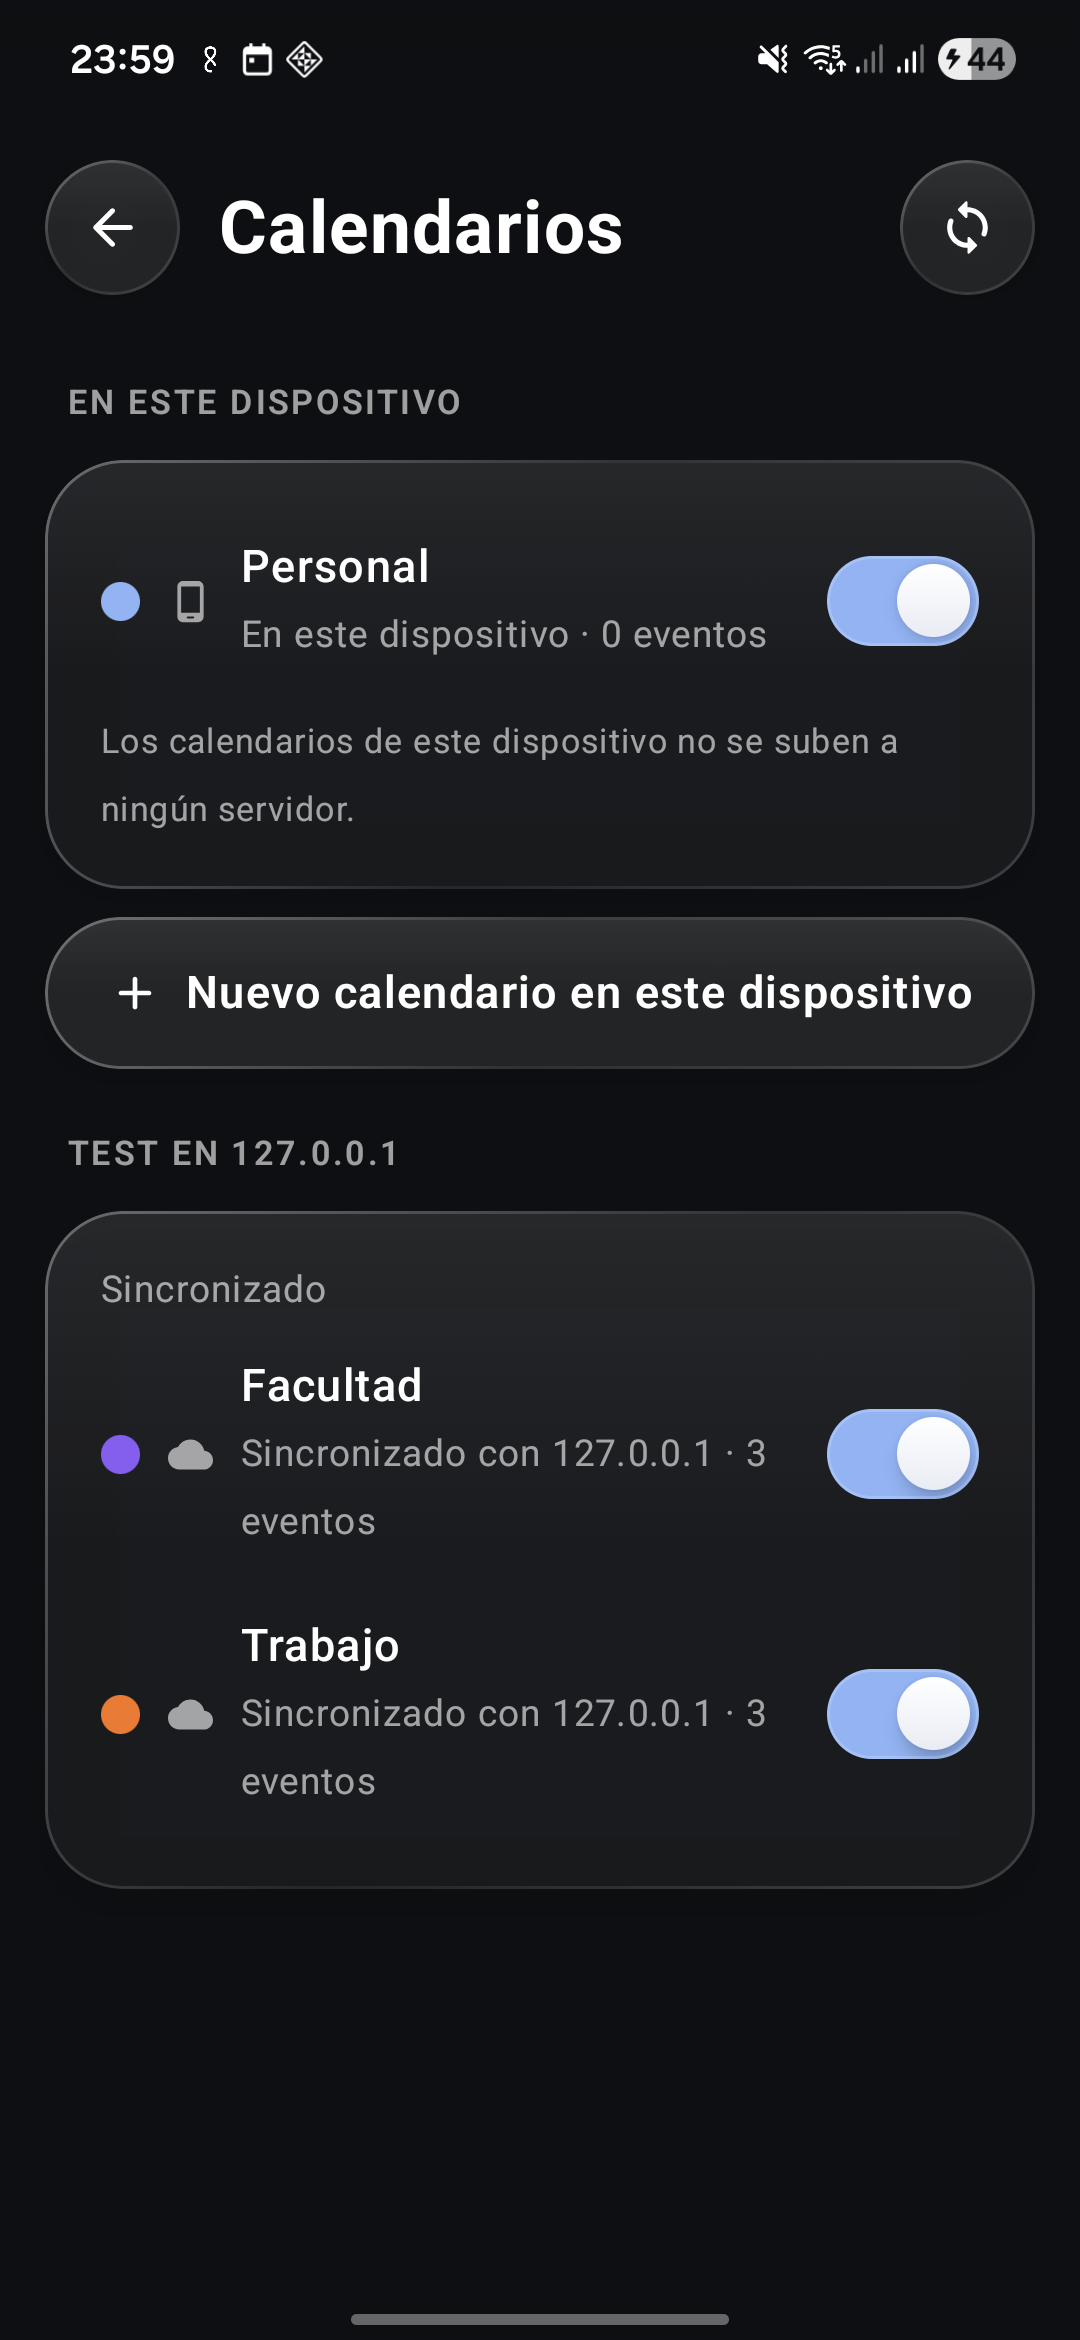
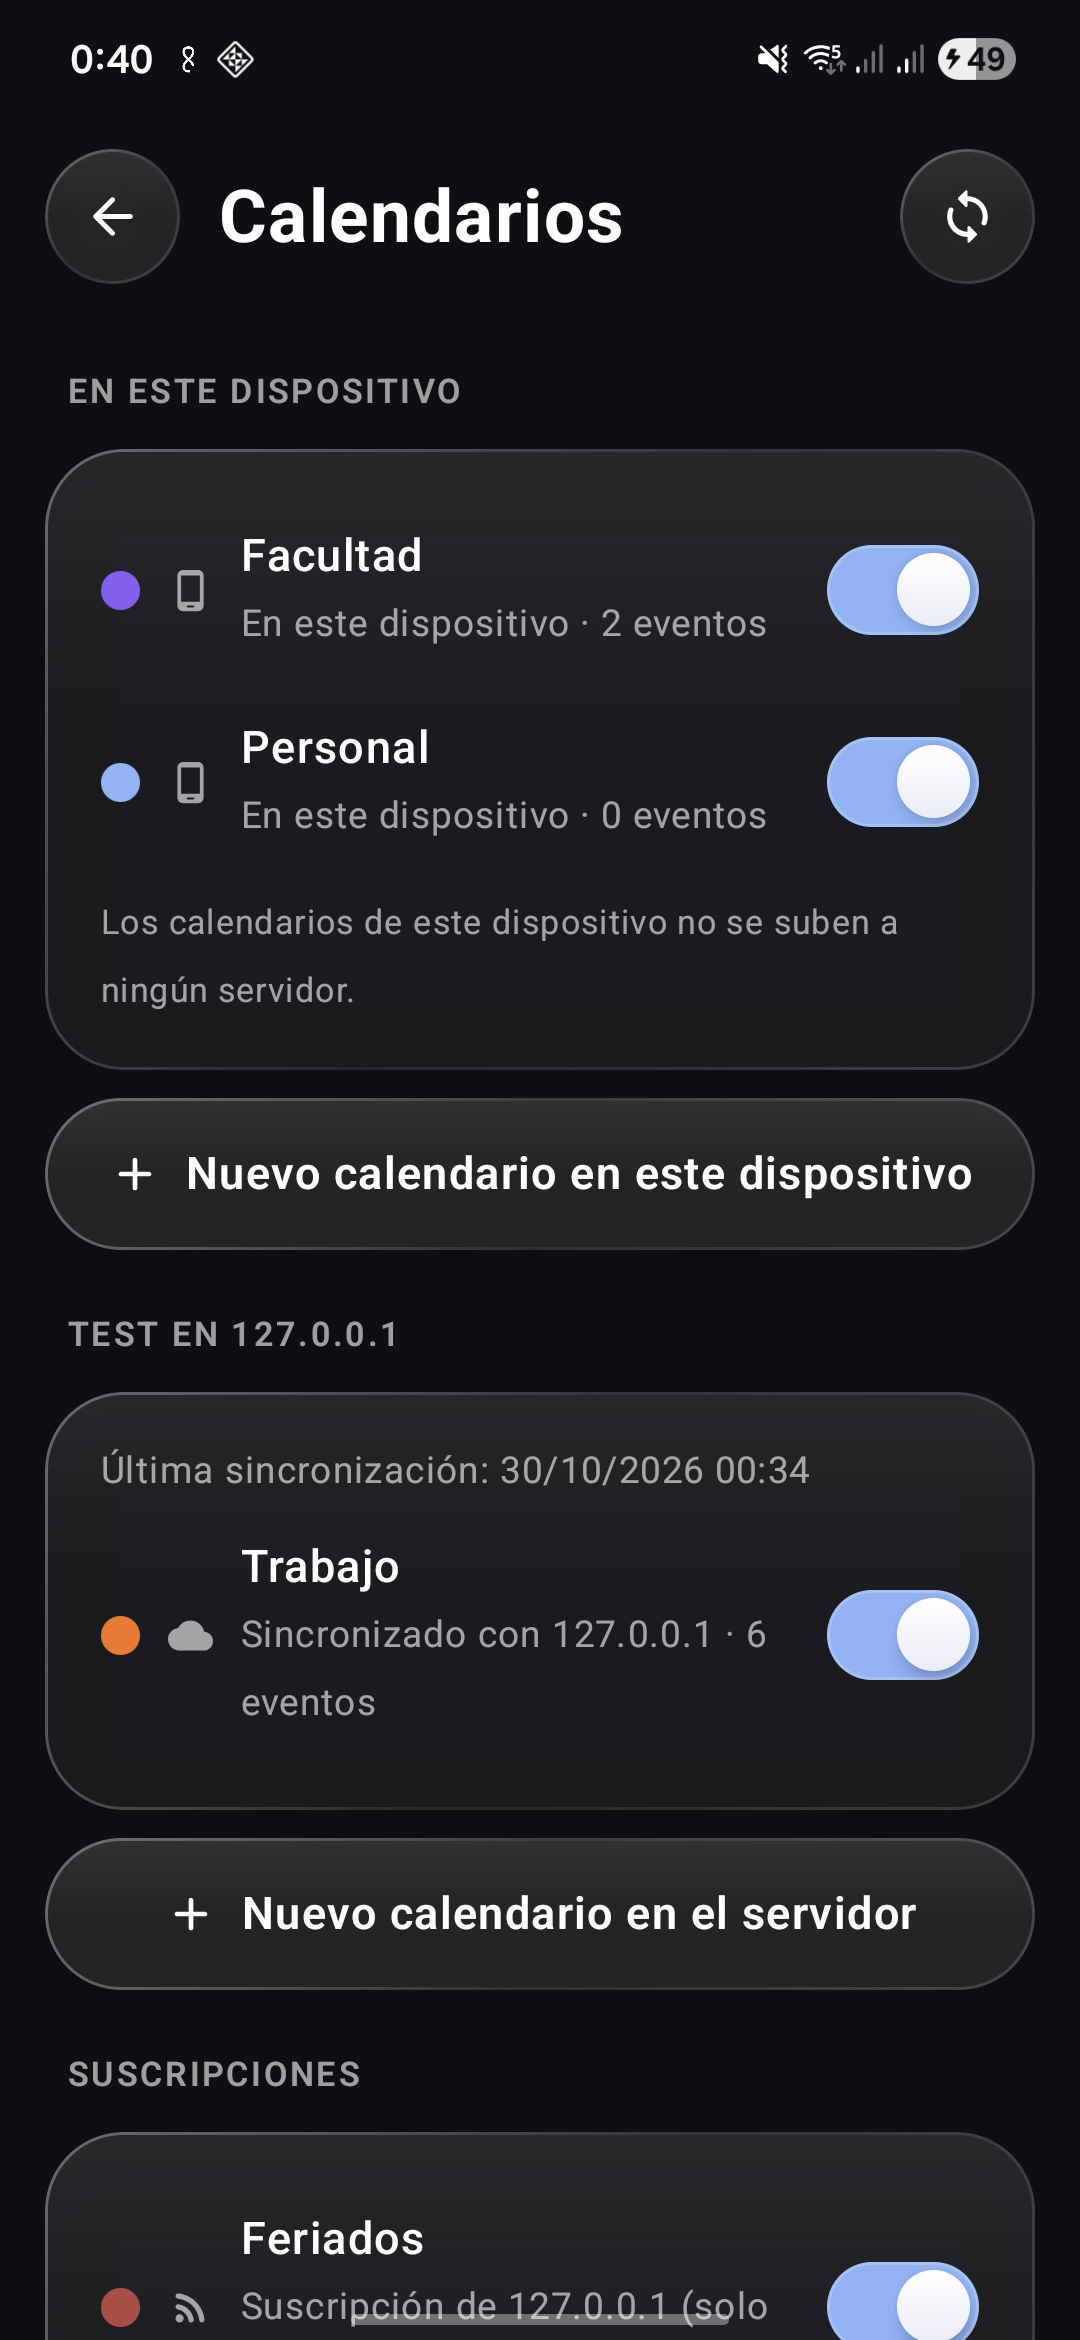
Etapa 6: prueba en el celu, ajustes y documentación
- Diálogos por encima del teclado (el borrado fuerte quedaba tapado).
- Destino de importación en filas con su origen; 304 del feed como "sin cambios".
- Alta de suscripción con una sola descarga; tras aceptar una redirección se reintenta.
- Feeds http solo hacia el propio celu y solo en compilaciones de prueba.
- Capturas con datos de prueba y LIMITACIONES actualizado.

diff --git a/app/src/main/java/dev/liquidcalendar/ui/screens/CalendarManage.kt b/app/src/main/java/dev/liquidcalendar/ui/screens/CalendarManage.kt
@@ -25,6 +25,14 @@ import androidx.compose.material.icons.rounded.DeleteOutline
 import androidx.compose.material.icons.rounded.FileDownload
 import androidx.compose.material.icons.rounded.Sync
 import androidx.compose.material3.Text
+import androidx.compose.material3.Icon
+import androidx.compose.material.icons.rounded.RadioButtonChecked
+import androidx.compose.material.icons.rounded.RadioButtonUnchecked
+import androidx.compose.foundation.layout.Spacer
+import androidx.compose.foundation.layout.width
+import dev.liquidcalendar.ui.glass.SettingRow
+import dev.liquidcalendar.ui.screens.views.OriginIcon
+import dev.liquidcalendar.ui.screens.views.originText
 import androidx.compose.runtime.Composable
 import androidx.compose.runtime.LaunchedEffect
 import androidx.compose.runtime.getValue
@@ -66,7 +74,6 @@ import dev.liquidcalendar.ui.glass.ACCENT_HUES
 import dev.liquidcalendar.ui.glass.DialogSpec
 import dev.liquidcalendar.ui.glass.GlassButton
 import dev.liquidcalendar.ui.glass.GlassCard
-import dev.liquidcalendar.ui.glass.GlassChip
 import dev.liquidcalendar.ui.glass.GlassTextField
 import dev.liquidcalendar.ui.glass.LocalDialog
 import dev.liquidcalendar.ui.glass.LocalGlass
@@ -299,9 +306,10 @@ fun SubscriptionScreen(calendarId: Long?, padding: PaddingValues, onBack: () -> 
     var color by rememberSaveable { mutableIntStateOf(info?.color ?: CALENDAR_COLORS[3]) }
     var interval by rememberSaveable { mutableIntStateOf(account?.refreshMinutes ?: Subscriptions.DEFAULT_INTERVAL) }
     var message by remember { mutableStateOf<String?>(null) }
+    var notice by remember { mutableStateOf<String?>(null) }
     var busy by remember { mutableStateOf(false) }
     val accepted = remember { mutableStateOf(account?.acceptedHosts.orEmpty()) }
-    val feed = (FeedUrl.parse(url) as? FeedUrl.Result.Ok)?.url
+    val feed = (Subscriptions.parse(url) as? FeedUrl.Result.Ok)?.url
 
     fun intervalLabel(m: Int) = when {
         m == 0 -> str(R.string.sync_manual)
@@ -380,27 +388,33 @@ fun SubscriptionScreen(calendarId: Long?, padding: PaddingValues, onBack: () -> 
             Text(feed?.let { str(R.string.subscription_ip_notice, it.host) } ?: str(R.string.subscription_ip_notice_generic), fontSize = 13.sp, color = p.contentSecondary)
         }
         if (message != null) Text(message!!, Modifier.padding(8.dp).semantics { liveRegion = LiveRegionMode.Polite }, fontSize = 14.sp, color = p.danger)
+        if (notice != null) Text(notice!!, Modifier.padding(8.dp).semantics { liveRegion = LiveRegionMode.Polite }, fontSize = 14.sp, color = p.contentSecondary)
         GlassButton(str(R.string.save), ::save, Modifier.fillMaxWidth().padding(top = 16.dp), prominent = true, enabled = !busy && feed != null)
         if (account != null && info != null) {
-            GlassButton(str(R.string.refresh_now), {
+            fun refreshNow() {
                 busy = true
+                message = null
+                notice = null
                 scope.launch {
-                    val r = Subscriptions.refresh(account, force = true)
+                    // La cuenta se relee: puede tener un host recién aceptado.
+                    val current = withContext(Dispatchers.IO) { Repo.account(account.id) } ?: return@launch
+                    val r = Subscriptions.refresh(current, force = true)
                     busy = false
-                    message = when (r) {
-                        is Subscriptions.Result.Ok -> plural(R.plurals.feed_events, r.events, r.events)
-                        Subscriptions.Result.Unchanged -> str(R.string.calendar_saved)
-                        is Subscriptions.Result.Redirect -> {
-                            askRedirect(r.to) {
-                                scope.launch(Dispatchers.IO) { Repo.acceptHost(account.id, r.to.authority) }
+                    when (r) {
+                        is Subscriptions.Result.Ok -> notice = plural(R.plurals.feed_events, r.events, r.events)
+                        Subscriptions.Result.Unchanged -> notice = str(R.string.feed_unchanged)
+                        is Subscriptions.Result.Redirect -> askRedirect(r.to) {
+                            scope.launch {
+                                withContext(Dispatchers.IO) { Repo.acceptHost(account.id, r.to.authority) }
+                                refreshNow()
                             }
-                            null
                         }
-                        is Subscriptions.Result.Wait -> str(R.string.err_busy)
-                        is Subscriptions.Result.Failed -> r.error?.let { errorMessage(it) } ?: str(R.string.feed_not_ics)
+                        is Subscriptions.Result.Wait -> message = str(R.string.err_busy)
+                        is Subscriptions.Result.Failed -> message = r.error?.let { errorMessage(it) } ?: str(R.string.feed_not_ics)
                     }
                 }
-            }, Modifier.fillMaxWidth().padding(top = 10.dp), icon = Icons.Rounded.Sync, enabled = !busy)
+            }
+            GlassButton(str(R.string.refresh_now), ::refreshNow, Modifier.fillMaxWidth().padding(top = 10.dp), icon = Icons.Rounded.Sync, enabled = !busy)
             GlassButton(str(R.string.export_ics), { exportCalendar(export, info) }, Modifier.fillMaxWidth().padding(top = 10.dp), icon = Icons.Rounded.FileDownload)
             GlassButton(str(R.string.delete_calendar), {
                 scope.launch {
@@ -440,7 +454,23 @@ fun ImportScreen(preview: ImportPreview, padding: PaddingValues, onBack: () -> U
             Column(verticalArrangement = Arrangement.spacedBy(8.dp)) {
                 calendars.forEach { c ->
                     // Cada opción dice si es local o sincronizado (lo importado se sube en ese caso).
-                    GlassChip("${c.name} · ${dev.liquidcalendar.ui.screens.views.originText(c)}", c.id == chosen?.id, { target = c }, Modifier.fillMaxWidth())
+                    SettingRow(
+                        c.name,
+                        Modifier.selectable(c.id == chosen?.id, role = Role.RadioButton) { target = c },
+                        subtitle = originText(c),
+                        leading = {
+                            Box(Modifier.size(14.dp).clip(CircleShape).background(Color(c.color)))
+                            Spacer(Modifier.width(10.dp))
+                            OriginIcon(c, size = 16)
+                            Spacer(Modifier.width(10.dp))
+                        },
+                    ) {
+                        Icon(
+                            if (c.id == chosen?.id) Icons.Rounded.RadioButtonChecked else Icons.Rounded.RadioButtonUnchecked,
+                            null,
+                            tint = if (c.id == chosen?.id) p.accent else p.contentSecondary,
+                        )
+                    }
                 }
             }
         }

diff --git a/app/src/main/java/dev/liquidcalendar/sync/Subscriptions.kt b/app/src/main/java/dev/liquidcalendar/sync/Subscriptions.kt
@@ -1,5 +1,6 @@
 package dev.liquidcalendar.sync
 
+import dev.liquidcalendar.BuildConfig
 import dev.liquidcalendar.core.dav.DavException
 import dev.liquidcalendar.core.feed.FeedClient
 import dev.liquidcalendar.core.feed.FeedResult
@@ -33,6 +34,20 @@ object Subscriptions {
     private val client = FeedClient()
     private val policy = RetryPolicy(base = Duration.ofMinutes(15), max = Duration.ofHours(24))
     private val mutex = Mutex()
+
+    /**
+     * Solo https (webcal:// cuenta como https). Las compilaciones de prueba, nunca la release,
+     * aceptan además http hacia el propio celu, para un feed local reenviado con adb reverse.
+     */
+    fun parse(input: String): FeedUrl.Result {
+        val r = FeedUrl.parse(input, allowHttp = BuildConfig.LOCALHOST_HTTP)
+        if (r is FeedUrl.Result.Ok && r.url.toString().startsWith("http://") && r.url.host !in LOOPBACK) {
+            return FeedUrl.Result.Invalid(FeedUrl.Reason.HTTP_NOT_ALLOWED)
+        }
+        return r
+    }
+
+    private val LOOPBACK = setOf("127.0.0.1", "localhost")
 
     sealed interface Result {
         data class Ok(val events: Int) : Result
@@ -83,7 +98,7 @@ object Subscriptions {
             account.retryAt?.let { if (it > now) return@withLock Result.Wait(Instant.ofEpochMilli(it)) }
             val interval = account.refreshMinutes ?: DEFAULT_INTERVAL
             if (!force && (interval <= 0 || (account.lastSync ?: 0) + interval * 60_000L > now)) return@withLock Result.Unchanged
-            val feed = (account.serverUrl?.let { FeedUrl.parse(it) } as? FeedUrl.Result.Ok)?.url ?: return@withLock Result.Failed(null)
+            val feed = (account.serverUrl?.let { parse(it) } as? FeedUrl.Result.Ok)?.url ?: return@withLock Result.Failed(null)
             val calendar = Repo.calendarOf(account.id) ?: return@withLock Result.Failed(null)
             try {
                 when (val r = client.fetch(feed, account.feedEtag, account.feedLastModified, account.acceptedHosts)) {

diff --git a/app/src/main/java/dev/liquidcalendar/ui/glass/Dialog.kt b/app/src/main/java/dev/liquidcalendar/ui/glass/Dialog.kt
@@ -1,5 +1,8 @@
 package dev.liquidcalendar.ui.glass
 
+import androidx.compose.foundation.rememberScrollState
+import androidx.compose.foundation.verticalScroll
+import androidx.compose.foundation.layout.imePadding
 import androidx.activity.compose.BackHandler
 import androidx.compose.animation.AnimatedVisibility
 import androidx.compose.animation.EnterTransition
@@ -56,13 +59,14 @@ fun BoxScope.DialogHost(spec: DialogSpec?, onDismiss: () -> Unit) {
     }
     AnimatedVisibility(
         spec != null,
-        modifier = Modifier.align(Alignment.Center).padding(20.dp),
+        modifier = Modifier.align(Alignment.Center).imePadding().padding(20.dp),
         enter = fadeIn() + if (reduced) EnterTransition.None else scaleIn(initialScale = 0.92f),
         exit = fadeOut() + if (reduced) ExitTransition.None else scaleOut(targetScale = 0.92f),
     ) {
         val s = last ?: return@AnimatedVisibility
         GlassSurface(Modifier.fillMaxWidth(), shape = RoundedCornerShape(34.dp), strong = true, frost = 16.dp) {
-            Column(Modifier.padding(22.dp)) {
+            // Con teclado, el contenido se desplaza en lugar de quedar tapado.
+            Column(Modifier.verticalScroll(rememberScrollState()).padding(22.dp)) {
                 Text(s.title, Modifier.semantics { heading() }.padding(bottom = 12.dp), fontSize = 20.sp, fontWeight = FontWeight.SemiBold)
                 s.content(onDismiss)
             }

diff --git a/app/src/main/java/dev/liquidcalendar/data/Repo.kt b/app/src/main/java/dev/liquidcalendar/data/Repo.kt
@@ -288,7 +288,7 @@ object Repo {
         val subs = all.filter { it.isSubscription }.associateBy { it.id }
         return calendars().associate { c ->
             val sub = subs[c.accountId]
-            val host = if (sub != null) sub.serverUrl?.let { (dev.liquidcalendar.core.feed.FeedUrl.parse(it) as? dev.liquidcalendar.core.feed.FeedUrl.Result.Ok)?.url?.host } else hosts[c.accountId]
+            val host = if (sub != null) sub.serverUrl?.let { (dev.liquidcalendar.core.feed.FeedUrl.parse(it, allowHttp = true) as? dev.liquidcalendar.core.feed.FeedUrl.Result.Ok)?.url?.host } else hosts[c.accountId]
             c.id to CalendarInfo(c.id, c.name, c.color, local = c.accountId in locals, host = host, readOnly = c.readOnly || sub != null, subscription = sub != null, missing = c.missing)
         }
     }

diff --git a/docs/LIMITACIONES.md b/docs/LIMITACIONES.md
@@ -2,6 +2,46 @@
 
 Lo que todavía no hace la app o hace de forma parcial. Se actualiza en cada etapa.
 
+## Resueltas en la etapa 6
+
+- Calendarios en el servidor: crear (MKCALENDAR con nombre, color y "eventos" o "eventos y
+  tareas"), renombrar y recolorear (PROPPATCH) y borrar (DELETE). Cada calendario se identifica
+  por su href; el slug de uno nuevo es un UUID, así que renombrarlo no cambia nada más.
+- Servidores sin MKCALENDAR (405, 415, 501 o 403): mensaje claro, sin crear nada local.
+- Borrar un calendario pide escribir su nombre exacto, muestra cuántos eventos se pierden y si
+  se borra también del servidor, y ofrece "Exportar primero".
+- Un calendario que desaparece del servidor no se borra: se marca y se pregunta si conservarlo en
+  el dispositivo, exportarlo o descartarlo (esto último, con la misma confirmación fuerte).
+- Suscripciones webcal/ICS: solo en el dispositivo y de solo lectura; nombre, color e intervalo
+  editables (1 h, 6 h, 12 h, cada día, cada semana o solo a mano; por defecto 12 h).
+  webcal:// pasa a https://; http://, credenciales en la URL y bajadas a http se rechazan;
+  un cambio de servidor se muestra y se pide confirmar antes de contactarlo. Máximo 5 MB y
+  30 s; ETag, If-Modified-Since y Retry-After; espera exponencial (15 min a 24 h). Sin cookies,
+  credenciales ni caché, con un User-Agent genérico. La URL nunca va a los registros.
+- Importar .ics con el selector del sistema (sin permisos): vista previa, destino con su origen,
+  máximo 5 MB y 5000 eventos, ninguna URL del archivo se visita, UID repetidos se saltean.
+- Exportar un calendario o un evento con el selector del sistema, siempre con el aviso de que el
+  archivo no va cifrado. El nombre sale del calendario o del evento y la fecha (solo ASCII).
+
+## Probado en el celu (etapa 6)
+
+Solo con la .debug, el Radicale local y datos inventados; la .debug se desinstaló al final.
+
+- Crear "Gimnasio" en el servidor (eventos y tareas): Radicale lo guardó con slug UUID,
+  `VEVENT,VTODO` y el color elegido.
+- Renombrar a "Gimnasio y pileta" y cambiar el color: PROPPATCH aplicado; al sincronizar, el
+  mismo calendario (sin duplicados).
+- Borrar "facultad" con curl desde afuera: la app avisó, exportó el .ics y lo conservó como local
+  con sus 2 eventos; la siguiente sincronización no lo volvió a subir.
+- Suscripción a un feed local: 5 eventos con una sola descarga; "Actualizar ahora" mandó la
+  petición condicional y el servidor respondió 304.
+- Feed que redirige a otro host: la app preguntó antes de contactarlo y, al aceptar, lo siguió.
+- Importar un .ics con 3 eventos válidos, uno sin UID, una serie, URL y ATTACH: 3 importados en
+  un calendario sincronizado y subidos; reimportar mostró "3 ya están" y no permitió importar.
+- Borrar "Gimnasio y pileta": el botón se habilitó solo con el nombre exacto; se borró del
+  servidor. Con otro nombre escrito, el botón siguió deshabilitado.
+- Exportar un evento: nombre de archivo `Turno-dentista-importado-2026-10-30.ics`.
+
 ## Resueltas en la etapa 5
 
 - Las series se editan y se borran (solo esta, esta y las siguientes, todas), con resumen previo.
@@ -40,4 +80,10 @@ Galaxy S24 FE, Android 16, contra Radicale 3.8.3 local con datos de prueba.
 | 8 | No se puede mover un evento a otro calendario. | Pendiente |
 | 9 | El selector de hora va de 5 en 5 minutos (si se abre sobre las 10:07, redondea a 10:05; si no se abre, no cambia). | Pendiente |
 | 10 | Los archivos de ejemplo de DAVx5 y Odysseus de los tests son reconstruidos a partir del formato típico, no capturados de esos clientes. | Sumar ejemplos reales |
-| 11 | No se pueden crear, renombrar ni borrar calendarios en el servidor, ni importar/exportar .ics ni suscripciones. | Etapa 6 |
+| 11 | Las tareas (VTODO) no se muestran ni se editan: "eventos y tareas" solo crea el calendario con ese tipo. | Pendiente |
+| 12 | Importar no actualiza eventos que ya existen (mismo UID): se saltean, nunca se pisan. | Por diseño |
+| 13 | Un .ics importado con zonas propias (TZID no IANA) conserva su VTIMEZONE, pero la descarga de zonas desde la web sigue apagada. | Por diseño |
+| 14 | Las suscripciones a feeds que piden usuario y contraseña no están soportadas (no se mandan credenciales). | Por diseño |
+| 15 | Si un feed redirige a otro servidor durante una actualización automática, la suscripción queda en error hasta que se abra y se acepte con "Actualizar ahora". | Por diseño |
+| 16 | El aviso de IP de cada suscripción se muestra en su pantalla; en la lista hay uno general. | Por diseño |
+| 17 | Al exportar un evento de una serie se exporta la serie entera (con sus excepciones). | Por diseño |

diff --git a/README.md b/README.md
@@ -19,6 +19,12 @@ A free CalDAV calendar for Android, made for a self-hosted server such as
   <img src="docs/screenshots/resumen-serie.png" width="200" alt="Summary before changing a series">
   <img src="docs/screenshots/calendarios.png" width="200" alt="Calendars">
   <img src="docs/screenshots/ajustes-recordatorios.png" width="200" alt="Reminder settings">
+  <img src="docs/screenshots/calendario-faltante.png" width="200" alt="Calendar deleted on the server">
+</p>
+<p align="center">
+  <img src="docs/screenshots/borrar-calendario.png" width="200" alt="Deleting a calendar">
+  <img src="docs/screenshots/suscripcion.png" width="200" alt="Subscription">
+  <img src="docs/screenshots/importar.png" width="200" alt="Import">
 </p>
 
 > Work in progress: there's no release yet. Screenshots show test data (`scripts/demo-data.py`)
@@ -32,6 +38,9 @@ A free CalDAV calendar for Android, made for a self-hosted server such as
   with a summary before confirming.
 - Reminders as local notifications. By default they don't show the event on the lock screen.
 - Works offline: changes wait in a queue and never overwrite a newer version on the server.
+- Create, rename, recolor and delete calendars on the server (deleting asks you to type the name).
+- Read-only webcal/ICS subscriptions that stay on the device, with a configurable refresh interval.
+- Import and export `.ics` files through the system file picker (no storage permission).
 
 Known gaps are listed (in Spanish) in [docs/LIMITACIONES.md](docs/LIMITACIONES.md).
 
@@ -49,7 +58,7 @@ Versions are pinned in `gradle/libs.versions.toml`. Besides AndroidX/Compose and
 
 | Library | Version | License | What for |
 |---|---|---|---|
-| OkHttp + Okio | 5.3.2 / 3.16.4 | Apache-2.0 | HTTP to the CalDAV server |
+| OkHttp + Okio | 5.3.2 / 3.16.4 | Apache-2.0 | HTTP to the CalDAV server and to subscriptions |
 | ical4j | 4.4.0 | BSD-3-Clause | iCalendar parsing and recurrences |
 | commons-lang3, commons-codec | 3.18.0, 1.17.0 | Apache-2.0 | required by ical4j |
 | threeten-extra | 1.8.0 | BSD-3-Clause | required by ical4j |
